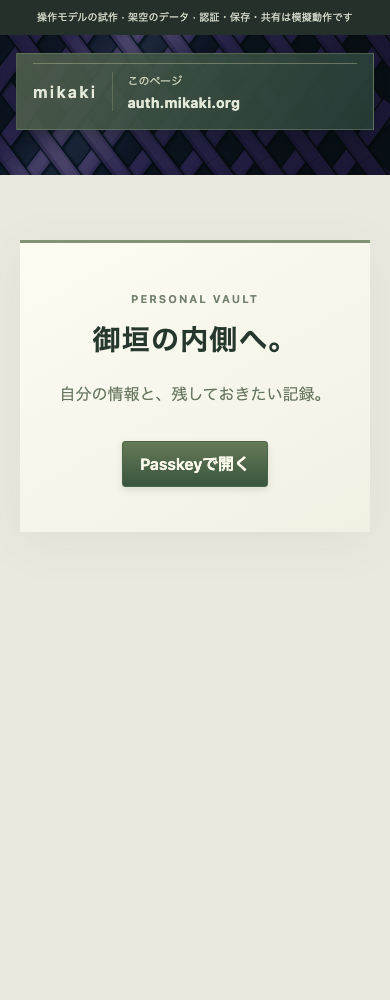
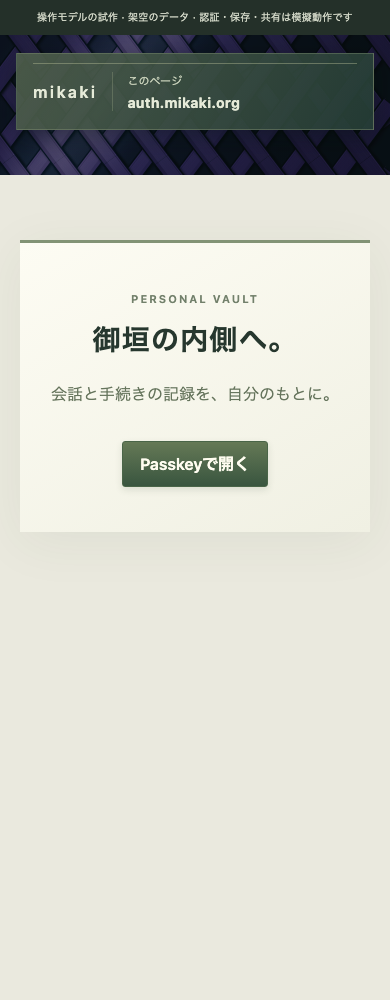
Center Vault on conversation threads and linked application history

Changed region(s): [[0.1231, 0.372, 0.8308, 0.403]]

diff --git a/docs/vault-usage-preview/prototype.js b/docs/vault-usage-preview/prototype.js
@@ -16,7 +16,8 @@ const model = {
   approved: false,
   shared: false,
   ceremonyCount: 0,
-  view: 'profile',
+  applicationAuthorized: false,
+  view: 'threads',
 };
 const record = {
   title: '次の作業への引き継ぎ',
@@ -41,7 +42,9 @@ function view(next, focus = false) {
     if (button.dataset.view === next) button.setAttribute('aria-current', 'page');
     else button.removeAttribute('aria-current');
   }
-  if (next === 'profile') {
+  if (next === 'threads') {
+    content.innerHTML = `<section class="panel"><div class="section-head"><h2 tabindex="-1">会話</h2><span class="muted">保管したやりとり</span></div><div class="rows"><button class="record" data-action="human-thread"><span>引っ越しの相談<small>あなた・佐藤さん · 人との会話</small></span><span class="arrow" aria-hidden="true">›</span></button><button class="record" data-action="ai-thread"><span>AIと申請を準備<small>あなた・申請補助AI · 書類と手続きの履歴</small></span><span class="arrow" aria-hidden="true">›</span></button></div></section>`;
+  } else if (next === 'profile') {
     content.innerHTML = `<section class="panel"><div class="section-head"><h2 tabindex="-1">自分の情報</h2><span class="badge">自分で確認</span></div><div class="profile-layout"><form id="profile-form"><label>表示名<input id="name" value="${escape(model.name)}" maxlength="256" required /></label><div class="fact"><span>この情報を使うアプリ</span><strong>narashi</strong></div><div class="actions"><button class="primary">保存</button></div></form><aside class="aside"><h3>自分の情報を、自分で選ぶ。</h3><p>アプリに渡す情報は、接続と許可から選べます。</p><button data-action="connections">接続と許可を見る</button></aside></div></section>`;
     element('profile-form').addEventListener('submit', (event) => {
       event.preventDefault();
@@ -56,6 +59,17 @@ function view(next, focus = false) {
     content.innerHTML = `<section class="panel"><div class="section-head"><h2 tabindex="-1">接続と許可</h2></div><h3>narashi</h3><p class="muted">表示名 · サインインに使用</p>${model.shared ? '<div class="permission"><h3>次の作業をするAI</h3><p>「次の作業への引き継ぎ」のコピー · 読むだけ · 1時間</p><p class="muted">停止すると、これからの取得を止めます。渡したコピーは取り戻せません。</p><button data-action="stop">取得を停止</button></div>' : '<div class="permission"><p class="muted">AIへの共有はありません。</p></div>'}</section>`;
   }
   if (focus) headingFocus();
+}
+function conversation(kind) {
+  announce('');
+  const ai = kind === 'ai-thread';
+  content.innerHTML = `<section class="panel reading"><button data-action="threads">会話へ戻る</button><h2 tabindex="-1">${ai ? 'AIと申請を準備' : '引っ越しの相談'}</h2><p class="source">${ai ? '参加者：あなた・申請補助AI（サンプルAIサービス）' : '参加者：あなた・佐藤さん'}</p>${ai ? '<p class="muted">この会話は、参加しているAIサービスに渡す内容です。</p>' : ''}<ol class="messages"><li class="message own"><span>あなた · 10:00</span><p>${ai ? 'この手続きを進めたいです。必要な書類を整理してください。' : '来週、引っ越し先を見に行こうと思っています。'}</p></li><li class="message"><span>${ai ? '申請補助AI' : '佐藤さん'} · 10:02</span><p>${ai ? '申請書の下書きを用意しました。送信前に、内容と宛先を確認してください。' : '土曜日なら一緒に行けます。候補の比較結果も確認しましょう。'}</p></li></ol>${ai ? `<div class="linked-artifact"><h3>申請書案 v1</h3><p class="muted">宛先：サンプル窓口 · 添付なし</p><button data-action="review-application">申請内容を確認</button></div><section class="history" aria-labelledby="history-title"><h3 id="history-title">手続きの履歴</h3><ol><li><strong>下書きを作成</strong><span>申請補助AI · 申請書案 v1</span></li>${model.applicationAuthorized ? '<li><strong>本人が申請を許可</strong><span>あなた · 申請書案 v1 · サンプル窓口</span></li>' : ''}<li class="pending"><strong>${model.applicationAuthorized ? '送信・受付は未確認' : '本人の確認待ち'}</strong><span>窓口の受付通知はまだありません。</span></li></ol></section>` : '<div class="linked-artifact"><h3>この会話に関連する記録</h3><button data-action="comparison">住まいの候補を比較</button></div>'}</section>`;
+  headingFocus();
+}
+function reviewApplication() {
+  announce('');
+  content.innerHTML = `<section class="panel reading"><button data-action="ai-thread">会話へ戻る</button><h2 tabindex="-1">申請内容を確認</h2><p class="source">申請補助AIが作成した下書き · v1</p><div class="review-text">申請内容：サンプル手続きの申請\n申請者：${escape(model.name)}\n宛先：サンプル窓口\n添付書類：なし</div><p class="muted">${model.applicationAuthorized ? 'この内容への許可を記録しています。送信・受付は未確認です。' : '許可する内容は、この版と宛先に限ります。'}</p><div class="actions">${model.applicationAuthorized ? '' : '<button class="primary" data-action="authorize-application">この内容で申請を許可</button>'}<button data-action="ai-thread">会話へ戻る</button></div></section>`;
+  headingFocus();
 }
 function review() {
   announce('');
@@ -108,7 +122,14 @@ document.addEventListener('click', (event) => {
   if (!button || !model.opened) return;
   if (button.dataset.view) view(button.dataset.view, true);
   const action = button.dataset.action;
-  if (['records', 'connections'].includes(action)) view(action, true);
+  if (['threads', 'records', 'connections'].includes(action)) view(action, true);
+  if (['human-thread', 'ai-thread'].includes(action)) conversation(action);
+  if (action === 'review-application') reviewApplication();
+  if (action === 'authorize-application') {
+    model.applicationAuthorized = true;
+    conversation('ai-thread');
+    announce('この内容への許可を記録しました。送信・受付は未確認です。');
+  }
   if (action === 'review') review();
   if (['recap', 'comparison', 'application'].includes(action)) read(action);
   if (action === 'accept') {

diff --git a/docs/vault-usage-preview/prototype.css b/docs/vault-usage-preview/prototype.css
@@ -367,6 +367,59 @@ input {
   color: #536745;
   min-height: 25px;
 }
+.messages {
+  list-style: none;
+  padding: 0;
+  margin: 28px 0;
+  display: grid;
+  gap: 18px;
+}
+.message {
+  background: #edf0e2;
+  border-left: 2px solid #a2b392;
+  padding: 16px 20px;
+  margin-right: 40px;
+}
+.message.own {
+  margin-right: 0;
+  margin-left: 40px;
+  background: #f5f3e4;
+  border-left-color: #baa67c;
+}
+.message span {
+  color: #68775f;
+  font-size: 12px;
+}
+.message p {
+  font-size: 14px;
+  margin-bottom: 0;
+}
+.linked-artifact {
+  background: #f5f5e9;
+  border: 1px solid #d4ddc6;
+  padding: 19px 22px;
+}
+.history {
+  margin-top: 28px;
+}
+.history ol {
+  list-style: none;
+  padding: 0;
+  border-left: 2px solid #bcc9aa;
+}
+.history li {
+  display: grid;
+  gap: 6px;
+  padding: 9px 0 14px 19px;
+}
+.history li span {
+  color: #6b7b60;
+  font-size: 12px;
+  line-height: 1.7;
+}
+.history .pending {
+  color: #82795d;
+}
 @media (max-width: 700px) {
   .preview-label {
     font-size: 10px;
@@ -397,7 +450,7 @@ input {
     gap: 0;
   }
   nav button {
-    padding: 14px 10px;
+    padding: 14px 7px;
     flex: 1;
     font-size: 13px;
   }

diff --git a/docs/vault-usage-preview/index.html b/docs/vault-usage-preview/index.html
@@ -24,7 +24,7 @@
       <section id="closed" class="closed">
         <span class="eyebrow">PERSONAL VAULT</span>
         <h1>御垣の内側へ。</h1>
-        <p>自分の情報と、残しておきたい記録。</p>
+        <p>会話と手続きの記録を、自分のもとに。</p>
         <button id="open" class="primary">Passkeyで開く</button>
       </section>
       <div id="workspace" hidden>
@@ -36,8 +36,9 @@
           <span class="open-state">開いています</span>
         </div>
         <nav aria-label="Vaultの内容">
-          <button data-view="profile" aria-current="page">自分の情報</button>
+          <button data-view="threads" aria-current="page">会話</button>
           <button data-view="records">記録</button>
+          <button data-view="profile">自分の情報</button>
           <button data-view="connections">接続と許可</button>
         </nav>
         <div id="content"></div>

diff --git a/docs/vault-product-model.md b/docs/vault-product-model.md
@@ -4,14 +4,17 @@
 
 ## Product purpose
 
-Vault is an owner-controlled place for personal information and selected records that remain useful across applications and AI agents. Its ordinary human tasks are to review, correct, find, approve and selectively reuse information. Writing a standalone note is optional, not its defining use case. An agent helps collect or prepare information; it does not become the owner or silently turn guesses into established facts.
+Vault is an owner-controlled place for encrypted human/human and human/AI conversation threads, personal information, and the records of actions that grow out of those conversations. Its ordinary human tasks are to resume a conversation, review, correct, find, approve and selectively reuse information. Writing a standalone note is optional, not its defining use case. An agent helps prepare information and applications; it does not become the owner or silently turn guesses into established facts.
 
-The working first-use hypothesis is personal profile plus cross-application AI context/results. Document/credential custody is a separate candidate, not a prerequisite for this first experience. The existing `owner_note` proves bounded encrypted record and proposal transitions; it is retained as legacy/test content, rather than expanded into the general record schema or silently relabeled as an AI memory.
+The user's first-use direction is encrypted conversation threads, followed by AI-assisted application preparation, submission and approval history. Profiles support those tasks; selected AI context/results attach to the relevant thread rather than becoming disconnected notes. Document/credential custody is a separate candidate, not a prerequisite for this first experience. The existing `owner_note` proves bounded encrypted record and proposal transitions; it is retained as legacy/test content, rather than expanded into the general thread/record schema or silently relabeled as an AI memory.
 
 ## Human and agent journeys
 
 | Journey | Trigger and useful result | Owner interaction | Authority and freshness |
 | --- | --- | --- | --- |
+| Keep human conversations | People exchange messages and retain context across devices. | Open once; resume the selected thread; inspect participants and retained history. | Live messaging and each owner's encrypted archive have separate authority/key lifecycles. Participant changes do not automatically grant archive or AI access. |
+| Work with an AI | An invited agent helps within one chosen conversation. | See the actual agent/provider and which thread/context it can read; review proposed actions. | The AI processing endpoint is an explicit plaintext recipient for the content it uses. Joining one thread does not open other threads or the owner's Vault. |
+| Prepare and follow an application | A conversation produces a draft, owner authorization, submission attempt and external decision. | Review exact destination/version/attachments; authorize separately; inspect official receipts and later decisions. | Assistant statements, owner authorization, a send attempt, receipt and decision are distinct events. Chat text cannot establish an official application state. |
 | Reuse personal information | An app needs a display name or, in a future selected profile, another field. The owner reviews one current value instead of entering it in every app. | Open Vault once; inspect/correct the value; approve the named app and exact fields. | An editable assertion is not issuer verification. Ordinary login does not imply profile release. Existing profile release is currently name-only and separately gated. |
 | Carry context between AI tools | A completed conversation/task produced decisions worth retaining. Another agent needs selected context for the next task. | Review/import a bounded summary and source references; later select the relevant records to disclose. | Keep source app, source item, version and confirmation state. A summary can be incomplete or wrong; confirmation does not verify its source cryptographically. |
 | Keep a useful result | An agent produced a comparison, plan or application draft. The result should outlive its chat session. | Review a proposed new record, then save it to the chosen collection. | Append a new record by default. Replacing an existing value requires its exact base revision and explicit approval. |
@@ -19,7 +22,7 @@ The working first-use hypothesis is personal profile plus cross-application AI c
 | Amend personal information | An agent suggests a profile change based on a document or conversation. | Review old/new values and source, accept or reject, then commit once. | A read grant cannot write; accepting a proposal cannot independently authorize disclosure to another app. |
 | Continue an unattended task | A remote agent needs a selected result while the owner is away. | Issue a limited recipient copy/grant in advance, with target, operations and expiry. | Owner-session keys do not travel with OAuth. A retained copy and its revocation limits must be visible. Unattended append is a future explicit capability, not the default. |
 
-Choose one actual producer and one actual consumer before adding an archive importer or a remote record-sharing capability. Candidate loop: an agent proposes one useful task recap; the human reviews and saves it; a second explicitly selected agent receives that saved recap. File trees, broad email/browser-history collection and arbitrary unattended writes are outside this first slice.
+The first useful loop is one encrypted thread saved and reopened under the owner's unified unlock, with messages and an optional reviewed result linked together. Select a concrete messaging app/AI endpoint before implementing live transport or automated import. Federation, file trees, broad email/browser-history collection and arbitrary unattended writes are outside this first storage slice. A selected thread excerpt or summary may later be handed to another agent; the original thread is not automatically disclosed.
 
 ## Data semantics versus storage
 
@@ -27,13 +30,36 @@ Choose one actual producer and one actual consumer before adding an archive impo
 
 | Concept | Meaning | Example / lifecycle | Current implementation |
 | --- | --- | --- | --- |
+| Thread | Stable conversation identity, participants/roles and linked message/event history. | Human/human or human/AI conversation. Membership/key changes and owner archive scope are explicit. | Proposed; no current E2EE thread API or qualified live messaging protocol exists. |
+| Message | A bounded sender-authenticated conversation event; bodies and attachments refer to a thread. | Human text, an AI reply, an edit/retraction reference or a linked draft. Deduplicate by scoped source/event identity and distinguish send/delivery/read outcomes. | Proposed; storing text in the note slot does not implement message delivery or sender authentication. |
 | Attribute | A named semantic value within an owner/namespace; consumers need a known meaning and current revision. | Display name; a future selected contact preference. Update with expected revision; retain provenance and deletion semantics. | `name` is a raw UTF-8 value. `owner_note` is stored through this API but is a typed test/legacy document, not proof of a universal attribute ontology. |
 | Record | An independently identified retained item; there can be many items of one type. | Task recap, comparison result, approved draft or an imported conversation copy. Append/import, find, annotate or supersede with explicit source/history. | A general record collection/list/search API does not exist. One `owner_note` slot must not be advertised as a collection. |
 | Attachment | Content belonging to a record, with an explicit media type, size, digest and record authorization. | A PDF attached to an application draft. | Proposed; the present 24 KiB encrypted-attribute bound is not a large-file service. |
 | Credential | An issuer-produced signed artifact and its holder-key/status semantics. | A membership or identity credential. Preserve exact issuer evidence separately from local annotations. | Isolated probes exist; no production credential wallet follows from this design. |
+| Workflow event | A structured fact or reported fact about one application/approval process, linked to its exact artifact and source. | Draft prepared, owner authorized, submission attempted, receipt confirmed, decision received, correction or withdrawal. Preserve actor, authority and evidence separately. | Proposed; current note approvals do not constitute external application or official approval history. |
 | Blob | Immutable stored bytes referenced by an authoritative head/record. | The encrypted body of an attribute or an eventual attachment. | R2 stores ciphertext; D1 stores head/revision/digest/envelope metadata. The user should not manage internal object keys. |
 
 Profiles may contain references to records; records may have attachments; both ultimately refer to stored bytes. Changing a profile field does not rewrite a source document. An encrypted blob's type is not sufficient evidence of its semantic schema, provenance or permission.
+
+A thread groups messages and links records/workflows; it is not a single continually overwritten blob. Bodies, artifacts and attachments may be separately encrypted blobs referenced by bounded, versioned events. One thread can link multiple applications, and an application may link several conversations, so its workflow identity must not be the thread ID. Message/record/attachment permissions must be checked together; a visible filename or search hit cannot leak a disallowed item.
+
+## Live E2EE, owner archive and AI recipients
+
+Live messaging uses participant/device messaging keys and a qualified messaging protocol. The owner's Vault key protects their retained conversation archive, not a permanent copy of all live message/ratchet secrets. Preserve the established [messaging boundary](federated-messaging.md); transport encryption, storage encryption and end-to-end messaging are separate claims. A plaintext chat import may become an encrypted owner archive but does not retroactively establish E2EE for its original transport.
+
+Long-term retained conversation text is intentionally readable under archive custody. A later compromise of that archive key can expose retained content; deleting live protocol keys does not erase a deliberately retained archive. This consequence is separate from the [MLS forward-secrecy mechanism](https://www.rfc-editor.org/rfc/rfc9420.html#section-16.6). Persist archive records and separately qualified live protocol state under their respective lifecycle contracts, including offline order, crash safety, rotation and device loss.
+
+For human/AI conversations, identify the runtime/provider that actually processes plaintext. E2EE can protect the delivery path to that authorized endpoint; it does not conceal messages from an AI service that must read them to answer. A browser/operator relay that decrypts before invoking an ordinary AI API is a decrypting recipient, not a relay-only endpoint. Do not label TLS plus an encrypted Vault archive as E2EE against that operator. Model endpoints, retention and decryption authority before selecting a provider/protocol. Other people in a conversation need an explicit AI-recipient/forwarding policy; adding an agent is not an automatic extension of the owner's read permission.
+
+Human messaging, AI read/context access, AI replies, draft proposals and external submission are distinct capabilities. Messages and attachments remain untrusted tool input. An incoming message saying "approve" cannot create a workflow authorization, and an agent's text cannot expand its grant. Source provenance, authentication/verification status, author-reported timestamps and locally observed times must remain distinguishable.
+
+## Application and approval history
+
+Preserve a structured event stream alongside the conversation, with a stable workflow ID, unique event/source identity, event kind, actor/role, destination, exact artifact version/digest and attachment references, author-reported/observed times, causal references and evidence reference/status. History is appended or explicitly corrected/superseded; do not silently rewrite an earlier approval when a draft changes. Deduplication, deletion/retention and audit integrity require their own implemented contracts; an append-shaped UI alone is not tamper-evident proof.
+
+The proposed sequence is **draft → owner authorization → submission attempt → recipient receipt → recipient decision**. Rejection, requested corrections, withdrawal, duplicate attempts, unknown outcomes and later decisions are separate events, not one happy-path status string. Authorization fixes destination, action, exact payload/attachments, version, delegated actor, expiry and retry identity. If content changes, that authorization cannot silently apply to the new content. First shipping scope is human-authorized submission; unattended submission requires a separate bounded delegation.
+
+Display "authorized" after the human's decision and "attempted/awaiting confirmation" after dispatch. Display "received" or "approved" only from a validated recipient-origin receipt/decision under a selected integration contract. Otherwise show a reported/unverified state. Preserve the original receipt artifact when available, its issuer/authentication status and source; a hash, screenshot, AI summary or encrypted chat message alone does not establish an official receipt. Submission authority is exercised by the selected application adapter, not by the archive storage API.
 
 The proposed record identity is independent of its title/path, and namespaces bind the owner, collection and declared producer. Encrypt titles, content and sensitive provenance in the owner payload where feasible; document the minimum routing/revision/size/access metadata exposed to the service. Source labels supplied by an app or agent remain unverified labels unless a distinct verification contract establishes stronger assurance.
 
@@ -43,7 +69,7 @@ A future record envelope should version its schema and specify record ID, kind, 
 
 The initial screen is one locked Vault, with one **Open with Passkey** action. Successful opening makes supported owner content readable and editable for a bounded session. Navigating sections and ordinary saves do not prompt again. A successful save keeps the owner's working session open and shows the saved value; it does not send the user back to another unlock action.
 
-The proposed sections are **My information**, **Records**, and **Connections**. Pending agent suggestions appear as a review task linked to their destination. Passkey/recovery settings are secondary account settings. Technical identifiers, envelope formats and operation IDs belong in diagnostics, not the main task flow.
+The proposed sections are **Conversations**, **Records**, **My information**, and **Connections**. A conversation shows who participates, messages, related artifacts and structured application/approval history. Pending agent suggestions appear as a review task linked to their destination. Passkey/recovery settings are secondary account settings. Technical identifiers, envelope formats and operation IDs belong in diagnostics, not the main task flow.
 
 Locked views contain no decrypted values or sensitive record titles. Empty sections give a concrete next action such as accepting an app/agent's proposed record, not a compulsory note editor. Existing unsupported/unknown records remain intact and are explicitly unavailable rather than erased, rendered as raw text or overwritten.
 
@@ -71,7 +97,9 @@ Existing data requires a deliberate upgrade/rewrap flow that proves readability 
 | --- | --- | --- |
 | U1: owner-key contract | Versioned Vault wrapping and a bounded unlock lease, independent of item count. | Round-trip/vector tests; wrong origin/owner/generation/credential; absent PRF/cancel; expired/aborted late replies; fresh content keys; unchanged legacy readability. |
 | U2: actual unified unlock | One entry action opens current supported personal information and legacy records. Ordinary navigation/save stays open. | Actual Worker/browser journey; ceremony counts; save/reopen/conflict/exact-retry behavior; lock/sleep/SSO replacement; disclosure/transfer boundaries; intended-device PRF. |
-| U3: first useful record loop | One named producer proposes a recap/result, the owner reviews/saves it, and one named consumer receives an explicitly selected saved record. | Source/schema contract; append identity/deduplication; approval versus disclosure; scope/search/list denials; saved-only bytes and stale-source handling. |
+| U3: first useful thread archive | One human/human or human/AI thread can be encrypted, saved, paged and reopened across supported owner devices, with a linked artifact. | Thread/message/schema/source contract; isolated owner/archive keys; IDs/deduplication/order; archive restoration and selected disclosure; imported versus live-E2EE labels. |
 | U4: broader object storage | Multiple records and attachments with quotas, paging and deletion/import semantics. | A concrete attachment use case, bounded streaming/media/download behavior, metadata exposure and owner/recipient isolation. Do not adopt a file standard from this prototype alone. |
+| U5: live E2EE messaging | A selected pair of human/device or human/AI endpoints exchange and archive messages; qualify federation separately. | Named maintained protocol/runtime; authentic participant keys; replay/order/offline/crash/rotation; truthful AI recipient boundary and actual server non-decryption evidence. |
+| U6: application/approval integration | One named real process connects exact owner authorization, an idempotent submission and verifiable recipient receipt/decision to the thread. | Modified-draft/actor/target rejection; uncertain retry; receipt provenance; denied/revoked delegation; corrections/withdrawal/history integrity. Chat assertions do not move official state. |
 
 The [interactive preview](vault-usage-preview/README.md) exercises the intended locked → open → ordinary save → proposal review → selected sharing → lock flow with fictional data. It is a reviewable target for U1/U2, not their completion. The existing [quality gates](product-quality.md), [protocol boundaries](adr/0012-vault-protocol-boundaries.md) and [fit/gap backlog](vault-fit-gap.md) remain in force.

diff --git a/docs/vault-usage-preview/README.md b/docs/vault-usage-preview/README.md
@@ -1,6 +1,6 @@
 # Fictional Vault interaction preview
 
-This preview accompanies the proposed [Vault product model](../vault-product-model.md). It uses fictional Japanese content and simulated opening, saving, proposal acceptance, sharing and stopping. It does not call WebAuthn, a Worker, production, or any agent; it has no storage or encryption. Reloading resets the demo. The existing woven renderer supplies the decorative header.
+This preview accompanies the proposed [Vault product model](../vault-product-model.md). It uses fictional Japanese human/human and human/AI threads, application authorization/history, and simulated opening, saving, proposal acceptance, sharing and stopping. It does not call WebAuthn, a Worker, production, a messaging endpoint or any agent; it has no storage or encryption. Reloading resets the demo. The existing woven renderer supplies the decorative header.
 
 Run from the repository root after installing the existing dependencies:
 
@@ -12,13 +12,15 @@ Open [the local preview](http://127.0.0.1:4178/). The server binds loopback only
 
 Try this sequence:
 
-1. Open once, edit the display name and save. No separate item unlock is shown.
-2. Open Records and review the AI's proposed task recap. Accepting creates a simulated retained record; it does not grant AI access.
-3. Open that record and choose to pass it to another AI. Review the one selected record, consumer/provider, read-only operation, one-hour duration and snapshot mode.
-4. In Connections, stop future retrieval. The copy cannot be recalled.
-5. Lock. Content is removed from the displayed workspace; opening again starts another simulated ceremony.
+1. Open once and inspect Conversations: the human conversation has a linked comparison; the AI conversation names its processing service and links a draft/application history.
+2. Review the exact sample draft/version/destination and authorize it. History records the owner's authorization; dispatch/receipt remain unconfirmed. It does not claim a submission or an official decision.
+3. Edit the display name in My information and save. No separate item unlock is shown.
+4. Open Records and review the AI's proposed task recap. Accepting creates a simulated retained record; it does not grant AI access.
+5. Open that record and choose to pass it to another AI. Review the one selected record, consumer/provider, read-only operation, one-hour duration and snapshot mode.
+6. In Connections, stop future retrieval. The copy cannot be recalled.
+7. Lock. Content is removed from the displayed workspace; opening again starts another simulated ceremony.
 
-The real owner-key lifetime, server authorization, conflict/retry behavior, imports, grants, recovery and crypto formats still require the implementation slices in the model. A click counter in this demo is not evidence of an actual single WebAuthn ceremony.
+The real owner-key lifetime, E2EE protocol/participant authentication, AI decryption boundary, server authorization, application dispatch/receipt verification, conflict/retry behavior, imports, grants, recovery and crypto formats still require the implementation slices in the model. A click counter in this demo is not evidence of an actual single WebAuthn ceremony.
 
 Capture and exercise the prototype:
 
@@ -31,6 +33,10 @@ The capture checks keyboard focus, the fictional action flow, absence of additio
 | State | Desktop | Mobile |
 | --- | --- | --- |
 | Locked | [Preview](locked-desktop.png) | [Preview](locked-mobile.png) |
+| Conversations | [Preview](threads-desktop.png) | [Preview](threads-mobile.png) |
+| Human conversation | [Preview](human-thread-desktop.png) | [Preview](human-thread-mobile.png) |
+| AI conversation | [Preview](ai-thread-desktop.png) | [Preview](ai-thread-mobile.png) |
+| Owner authorization, receipt pending | [Preview](application-history-desktop.png) | [Preview](application-history-mobile.png) |
 | My information | [Preview](profile-desktop.png) | [Preview](profile-mobile.png) |
 | Records | [Preview](records-desktop.png) | [Preview](records-mobile.png) |
 | Agent proposal review | [Preview](review-desktop.png) | [Preview](review-mobile.png) |

diff --git a/docs/roadmap.md b/docs/roadmap.md
@@ -38,4 +38,4 @@ For the native app, qualify the [Vault ciphertext, owner unlock, and device-reco
 
 The [product quality gates](product-quality.md) track responsive/keyboard/error behavior, documentation drift, operational readiness, and the remaining activation evidence. The [account and Vault UI](product-ui-preview.md) now shares the login design; local visual and interaction checks do not replace intended-device, assistive-technology, or production validation.
 
-The [2026-10-03 Vault usage proposal](vault-product-model.md) prioritizes a single owner-key unlock and human review/reuse of app/agent-produced records. It distinguishes semantic attributes and independently identified records from internal blob storage, and includes a fictional interactive preview. The current per-item unlock, single-note slot and name-only remote sharing remain implementation limits; the preview does not qualify their replacements.
+The [2026-10-03 Vault usage proposal](vault-product-model.md) prioritizes a single owner-key unlock, encrypted human/human and human/AI thread archives, and subsequently linked application/approval history. It distinguishes semantic threads/messages/workflow events, attributes and records from internal blob storage, and includes a fictional interactive preview. Live E2EE requires its own qualified endpoint/key/protocol boundary; chat assertions are not official receipts or decisions. The current per-item unlock, single-note slot and name-only remote sharing remain implementation limits; the preview does not qualify their replacements.

diff --git a/docs/federated-messaging.md b/docs/federated-messaging.md
@@ -2,6 +2,8 @@
 
 This is a planned development goal, not a completed protocol or implementation. Separate Mikaki instances deployed under different Cloudflare accounts should exchange end to end encrypted messages between DID identified users. The [implementation specification](implementation-spec.md) defines the proposed device and delivery contracts.
 
+The [2026-10-03 Vault product model](vault-product-model.md) makes human/human and human/AI threads the first intended retained content, with later linked application/approval events. It keeps live messaging keys separate from owner archive keys, identifies the AI plaintext-processing endpoint, and distinguishes conversational assertions from authenticated submission receipts and decisions. Its fictional interaction preview does not implement E2EE or a submission service; the live protocol and independent-instance pilot gates below remain open.
+
 ## Identity and trust
 
 Each instance may have a separate operator, Cloudflare account, D1, R2, and secrets. Cross instance delivery uses authenticated HTTPS, not a shared DB or account level Service Binding. Distinguish infrastructure account, instance DID, user DID, device/key IDs, and app subject. Internal IDs follow the [identifier policy](identifier-policy.md); a DID is used where key control and resolution matter, not for every database row. A DID alone proves neither real world identity, permission to send, nor Vault access.

diff --git a/docs/personal-vault.md b/docs/personal-vault.md
@@ -4,7 +4,7 @@ This records planned direction and decisions still needed before implementation;
 
 The [protocol review](vault-protocol-review.md) and [ADR 0012](adr/0012-vault-protocol-boundaries.md) separate owner ciphertext storage, profile release, credential presentation, file synchronization, and AI adapters. Remote MCP is one access adapter; it is not the canonical Vault protocol.
 
-The [2026-10-03 usage-model proposal](vault-product-model.md) makes human review/reuse and selected agent-produced records the initial product hypothesis, rather than manual note-taking. It separates semantic attributes, multi-item records, attachments and underlying blobs, and specifies a unified owner-key unlock target. Its interactive preview is fictional; the current per-attribute encryption and individual unlock contracts have not changed.
+The [2026-10-03 usage-model proposal](vault-product-model.md) prioritizes encrypted human/human and human/AI threads, followed by linked application/approval history. It separates thread/message/workflow semantics, attributes, records, attachments and underlying blobs, and specifies a unified owner-key unlock target. Its interactive preview is fictional; the current per-attribute encryption and individual unlock contracts have not changed.
 
 ## Boundaries
 
